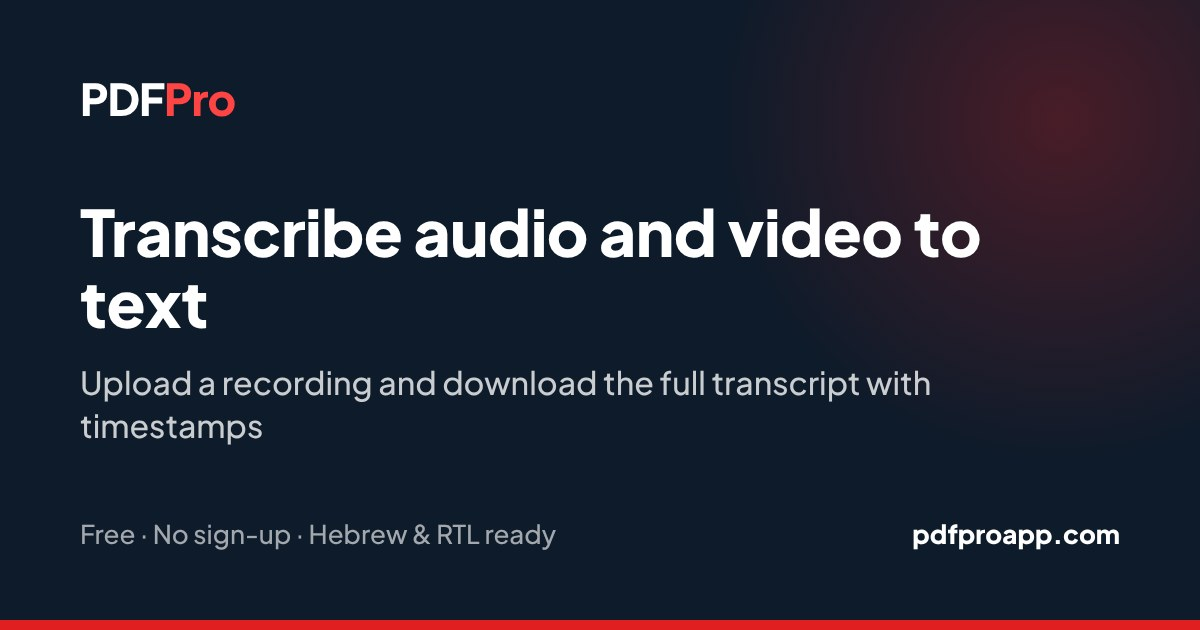
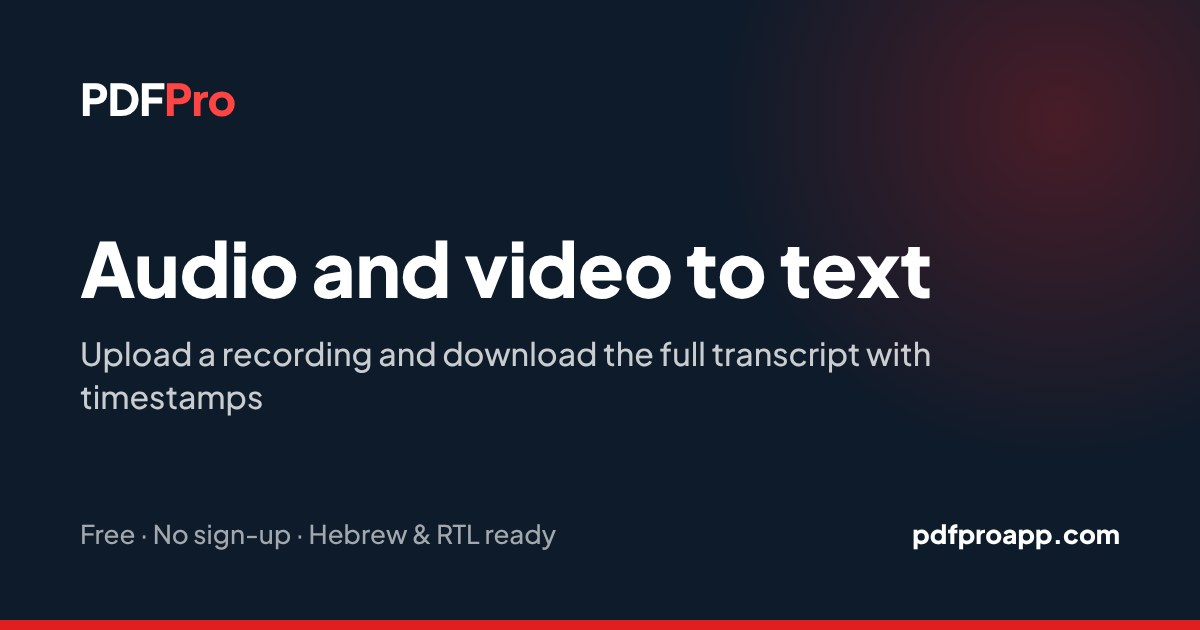
Titles from Google Trends: 'תרגום מסמכים' on Hebrew translate, 'audio to text' on English transcribe (#27)
Claude-Session: https://claude.ai/code/session_01XJZ43rP6NY81ufvKxETeWz

Changed region(s): [[0.0617, 0.3317, 0.8325, 0.6937]]

diff --git a/he/translate-pdf/index.html b/he/translate-pdf/index.html
@@ -3,8 +3,8 @@
 <head>
 <meta charset="UTF-8">
 <meta name="viewport" content="width=device-width, initial-scale=1">
-<title>תרגום PDF לעברית ומעברית – בחינם אונליין | PDFPro</title>
-<meta name="description" content="תרגום קובץ PDF בין עברית, אנגלית, ערבית, רוסית, צרפתית, גרמנית וספרדית, עם שמירה על הפריסה. בחינם.">
+<title>תרגום מסמכים PDF לעברית ומעברית – בחינם | PDFPro</title>
+<meta name="description" content="תרגום מסמכים וקובצי PDF בין עברית, אנגלית, ערבית, רוסית, צרפתית, גרמנית וספרדית, עם שמירה על העיצוב. בחינם, בלי הרשמה.">
 <link rel="canonical" href="https://www.pdfproapp.com/he/translate-pdf/">
 <link rel="icon" href="/favicon.ico" sizes="48x48">
 <link rel="icon" href="/favicon.svg" type="image/svg+xml">
@@ -17,14 +17,14 @@
 <link rel="alternate" hreflang="x-default" href="https://www.pdfproapp.com/translate-pdf/">
 <meta property="og:type" content="website">
 <meta property="og:site_name" content="PDFPro">
-<meta property="og:title" content="תרגום PDF לעברית ומעברית – בחינם אונליין | PDFPro">
-<meta property="og:description" content="תרגום קובץ PDF בין עברית, אנגלית, ערבית, רוסית, צרפתית, גרמנית וספרדית, עם שמירה על הפריסה. בחינם.">
+<meta property="og:title" content="תרגום מסמכים PDF לעברית ומעברית – בחינם | PDFPro">
+<meta property="og:description" content="תרגום מסמכים וקובצי PDF בין עברית, אנגלית, ערבית, רוסית, צרפתית, גרמנית וספרדית, עם שמירה על העיצוב. בחינם, בלי הרשמה.">
 <meta property="og:url" content="https://www.pdfproapp.com/he/translate-pdf/">
 <meta property="og:locale" content="he_IL">
 <meta property="og:image" content="https://www.pdfproapp.com/assets/og/he-translate-pdf.jpg">
 <meta property="og:image:width" content="1200">
 <meta property="og:image:height" content="630">
-<meta property="og:image:alt" content="תרגום PDF לעברית ומעברית – בחינם אונליין | PDFPro">
+<meta property="og:image:alt" content="תרגום מסמכים PDF לעברית ומעברית – בחינם | PDFPro">
 <meta name="twitter:card" content="summary_large_image">
 <meta name="twitter:image" content="https://www.pdfproapp.com/assets/og/he-translate-pdf.jpg">
 <link rel="preconnect" href="https://fonts.googleapis.com">
@@ -35,7 +35,7 @@
 <script async src="https://pagead2.googlesyndication.com/pagead/js/adsbygoogle.js?client=ca-pub-5921716820042715" crossorigin="anonymous"></script>
 <script async src="https://www.googletagmanager.com/gtag/js?id=G-TL72YY4S22"></script>
 <script>window.dataLayer=window.dataLayer||[];function gtag(){dataLayer.push(arguments);}gtag('js',new Date());gtag('config','G-TL72YY4S22');</script>
-<script type="application/ld+json">{"@context": "https://schema.org", "@graph": [{"@type": "WebApplication", "name": "PDFPro תרגום PDF", "url": "https://www.pdfproapp.com/he/translate-pdf/", "applicationCategory": "UtilitiesApplication", "operatingSystem": "Any", "inLanguage": "he", "description": "תרגום קובץ PDF בין עברית, אנגלית, ערבית, רוסית, צרפתית, גרמנית וספרדית, עם שמירה על הפריסה. בחינם.", "offers": {"@type": "Offer", "price": "0", "priceCurrency": "USD"}}, {"@type": "FAQPage", "mainEntity": [{"@type": "Question", "name": "אילו שפות נתמכות?", "acceptedAnswer": {"@type": "Answer", "text": "עברית, אנגלית, ערבית, רוסית, צרפתית, גרמנית וספרדית."}}, {"@type": "Question", "name": "הפריסה נשמרת?", "acceptedAnswer": {"@type": "Answer", "text": "כששמירת הפריסה מופעלת, הטקסט חוזר למקום שבו היה. תרגום ארוך יכול לחרוג מתיבות קטנות."}}, {"@type": "Question", "name": "התרגום מספיק טוב לשימוש רשמי?", "acceptedAnswer": {"@type": "Answer", "text": "זה תרגום מכונה, מתאים להבנת המסמך. למסמכים משפטיים או רשמיים עדיף מתרגם מוסמך."}}, {"@type": "Question", "name": "למה המגבלה בכלי הזה נמוכה יותר?", "acceptedAnswer": {"@type": "Answer", "text": "תרגום הוא הכלי הכבד ביותר להרצה, ולכן מותר בו פחות קבצים בשעה."}}]}, {"@type": "BreadcrumbList", "itemListElement": [{"@type": "ListItem", "position": 1, "name": "בית", "item": "https://www.pdfproapp.com/he/"}, {"@type": "ListItem", "position": 2, "name": "תרגום PDF"}]}]}</script>
+<script type="application/ld+json">{"@context": "https://schema.org", "@graph": [{"@type": "WebApplication", "name": "PDFPro תרגום PDF", "url": "https://www.pdfproapp.com/he/translate-pdf/", "applicationCategory": "UtilitiesApplication", "operatingSystem": "Any", "inLanguage": "he", "description": "תרגום מסמכים וקובצי PDF בין עברית, אנגלית, ערבית, רוסית, צרפתית, גרמנית וספרדית, עם שמירה על העיצוב. בחינם, בלי הרשמה.", "offers": {"@type": "Offer", "price": "0", "priceCurrency": "USD"}}, {"@type": "FAQPage", "mainEntity": [{"@type": "Question", "name": "אילו שפות נתמכות?", "acceptedAnswer": {"@type": "Answer", "text": "עברית, אנגלית, ערבית, רוסית, צרפתית, גרמנית וספרדית."}}, {"@type": "Question", "name": "הפריסה נשמרת?", "acceptedAnswer": {"@type": "Answer", "text": "כששמירת הפריסה מופעלת, הטקסט חוזר למקום שבו היה. תרגום ארוך יכול לחרוג מתיבות קטנות."}}, {"@type": "Question", "name": "התרגום מספיק טוב לשימוש רשמי?", "acceptedAnswer": {"@type": "Answer", "text": "זה תרגום מכונה, מתאים להבנת המסמך. למסמכים משפטיים או רשמיים עדיף מתרגם מוסמך."}}, {"@type": "Question", "name": "למה המגבלה בכלי הזה נמוכה יותר?", "acceptedAnswer": {"@type": "Answer", "text": "תרגום הוא הכלי הכבד ביותר להרצה, ולכן מותר בו פחות קבצים בשעה."}}]}, {"@type": "BreadcrumbList", "itemListElement": [{"@type": "ListItem", "position": 1, "name": "בית", "item": "https://www.pdfproapp.com/he/"}, {"@type": "ListItem", "position": 2, "name": "תרגום PDF"}]}]}</script>
 </head>
 <body class="rtl">
 <header class="site-nav">
@@ -52,8 +52,8 @@
 <main>
 <div class="container">
   <nav class="breadcrumb" aria-label="Breadcrumb"><ol><li><a href="/he/">בית</a></li><li aria-current="page">תרגום PDF</li></ol></nav>
-  <h1>תרגום קובץ PDF</h1>
-  <p class="lead">מתרגמים PDF שלם לשפה אחרת ומקבלים אותו בחזרה כ-PDF, עם הפריסה המקורית ככל האפשר.</p>
+  <h1>תרגום מסמכים PDF</h1>
+  <p class="lead">מתרגמים מסמך PDF שלם, מכתב, חוזה, הוראות או מאמר, לשפה אחרת, ומקבלים אותו בחזרה כ-PDF עם הפריסה המקורית ככל האפשר.</p>
 
   <section class="tool" aria-label="תרגום PDF">
     <label class="dropzone" id="tool-dropzone" tabindex="0">

diff --git a/transcribe-audio/index.html b/transcribe-audio/index.html
@@ -3,7 +3,7 @@
 <head>
 <meta charset="UTF-8">
 <meta name="viewport" content="width=device-width, initial-scale=1">
-<title>Free Audio Transcription – No Sign-Up, No Paywall | PDFPro</title>
+<title>Audio to Text – Free Transcription, No Sign-Up | PDFPro</title>
 <meta name="description" content="Turn a voice note, call, lecture or video into text, Word or subtitles. Really free: no sign-up, no login, no payment at the end. Up to 60 minutes.">
 <link rel="canonical" href="https://www.pdfproapp.com/transcribe-audio/">
 <link rel="icon" href="/favicon.ico" sizes="48x48">
@@ -17,14 +17,14 @@
 <link rel="alternate" hreflang="x-default" href="https://www.pdfproapp.com/transcribe-audio/">
 <meta property="og:type" content="website">
 <meta property="og:site_name" content="PDFPro">
-<meta property="og:title" content="Free Audio Transcription – No Sign-Up, No Paywall | PDFPro">
+<meta property="og:title" content="Audio to Text – Free Transcription, No Sign-Up | PDFPro">
 <meta property="og:description" content="Turn a voice note, call, lecture or video into text, Word or subtitles. Really free: no sign-up, no login, no payment at the end. Up to 60 minutes.">
 <meta property="og:url" content="https://www.pdfproapp.com/transcribe-audio/">
 <meta property="og:locale" content="en_US">
 <meta property="og:image" content="https://www.pdfproapp.com/assets/og/en-transcribe-audio.jpg">
 <meta property="og:image:width" content="1200">
 <meta property="og:image:height" content="630">
-<meta property="og:image:alt" content="Free Audio Transcription – No Sign-Up, No Paywall | PDFPro">
+<meta property="og:image:alt" content="Audio to Text – Free Transcription, No Sign-Up | PDFPro">
 <meta name="twitter:card" content="summary_large_image">
 <meta name="twitter:image" content="https://www.pdfproapp.com/assets/og/en-transcribe-audio.jpg">
 <link rel="preconnect" href="https://fonts.googleapis.com">
@@ -52,7 +52,7 @@
 <main>
 <div class="container">
   <nav class="breadcrumb" aria-label="Breadcrumb"><ol><li><a href="/">Home</a></li><li aria-current="page">Transcribe audio</li></ol></nav>
-  <h1>Transcribe audio and video to text</h1>
+  <h1>Audio and video to text</h1>
   <p class="lead">Upload a recording and download the full transcript with timestamps, as a Word document, plain text or subtitles. No sign-up, no login and no payment screen after the upload. Hebrew, English and more, up to 60 minutes per file.</p>
 
   <section class="tool" aria-label="Transcribe audio">

diff --git a/build.py b/build.py
@@ -521,10 +521,10 @@ TOOLS = [
         },
         "he": {
             "name": "תרגום PDF",
-            "title": "תרגום PDF לעברית ומעברית – בחינם אונליין | PDFPro",
-            "desc": "תרגום קובץ PDF בין עברית, אנגלית, ערבית, רוסית, צרפתית, גרמנית וספרדית, עם שמירה על הפריסה. בחינם.",
-            "h1": "תרגום קובץ PDF",
-            "lead": "מתרגמים PDF שלם לשפה אחרת ומקבלים אותו בחזרה כ-PDF, עם הפריסה המקורית ככל האפשר.",
+            "title": "תרגום מסמכים PDF לעברית ומעברית – בחינם | PDFPro",
+            "desc": "תרגום מסמכים וקובצי PDF בין עברית, אנגלית, ערבית, רוסית, צרפתית, גרמנית וספרדית, עם שמירה על העיצוב. בחינם, בלי הרשמה.",
+            "h1": "תרגום מסמכים PDF",
+            "lead": "מתרגמים מסמך PDF שלם, מכתב, חוזה, הוראות או מאמר, לשפה אחרת, ומקבלים אותו בחזרה כ-PDF עם הפריסה המקורית ככל האפשר.",
             "run": "תרגם PDF",
             "steps": [
                 ("בוחרים את ה-PDF", "הקובץ צריך להכיל טקסט אמיתי. אם זו סריקה, מעבירים קודם ב-OCR."),
@@ -611,9 +611,9 @@ TOOLS = [
         ],
         "en": {
             "name": "Transcribe audio",
-            "title": "Free Audio Transcription – No Sign-Up, No Paywall | PDFPro",
+            "title": "Audio to Text – Free Transcription, No Sign-Up | PDFPro",
             "desc": "Turn a voice note, call, lecture or video into text, Word or subtitles. Really free: no sign-up, no login, no payment at the end. Up to 60 minutes.",
-            "h1": "Transcribe audio and video to text",
+            "h1": "Audio and video to text",
             "lead": "Upload a recording and download the full transcript with timestamps, as a Word document, plain text or subtitles. No sign-up, no login and no payment screen after the upload. Hebrew, English and more, up to 60 minutes per file.",
             "run": "Transcribe",
             "steps": [
